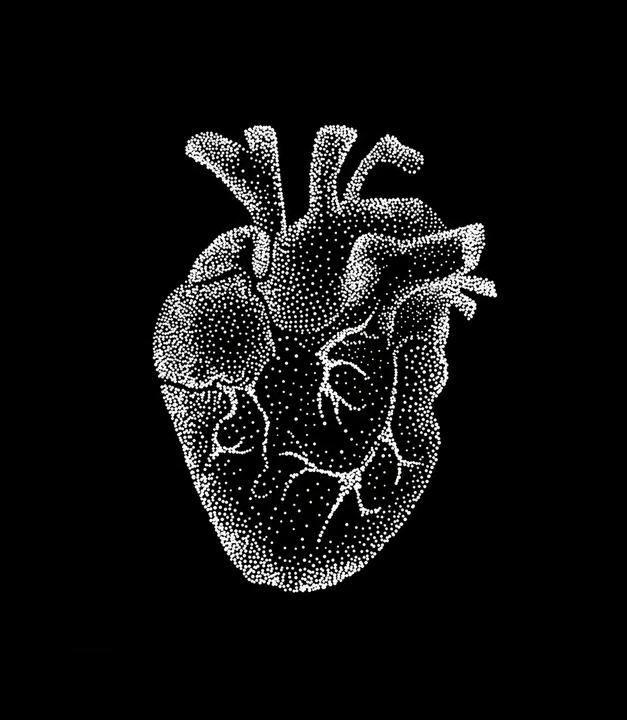
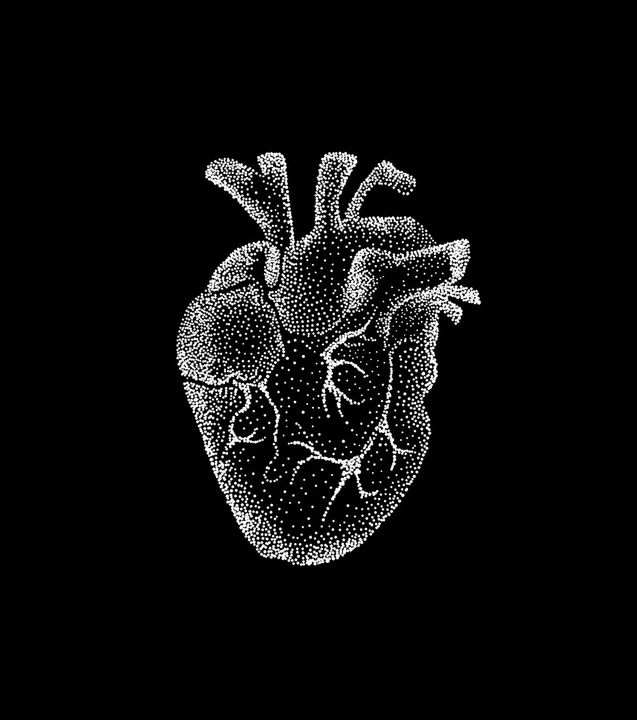
Wider frame (20%) on Corazón, Caída, Pincushion
Claude-Session: https://claude.ai/code/session_01KTDF7EFRKPh24F87yrqThd

Changed region(s): [[0.2424, 0.1528, 0.7879, 0.825]]

diff --git a/public/js/works.js b/public/js/works.js
@@ -4,7 +4,7 @@ window.WORKS = [
   "id": "heart",
   "title": "Corazón",
   "medium": "Hand-drawn stipple, white on black",
-  "w": 1219,
+  "w": 1239,
   "h": 1400
  },
  {
@@ -46,7 +46,7 @@ window.WORKS = [
   "id": "pincushion",
   "title": "Pincushion",
   "medium": "Hand-drawn line and stipple, colour on black",
-  "w": 1059,
+  "w": 1098,
   "h": 1400
  },
  {
